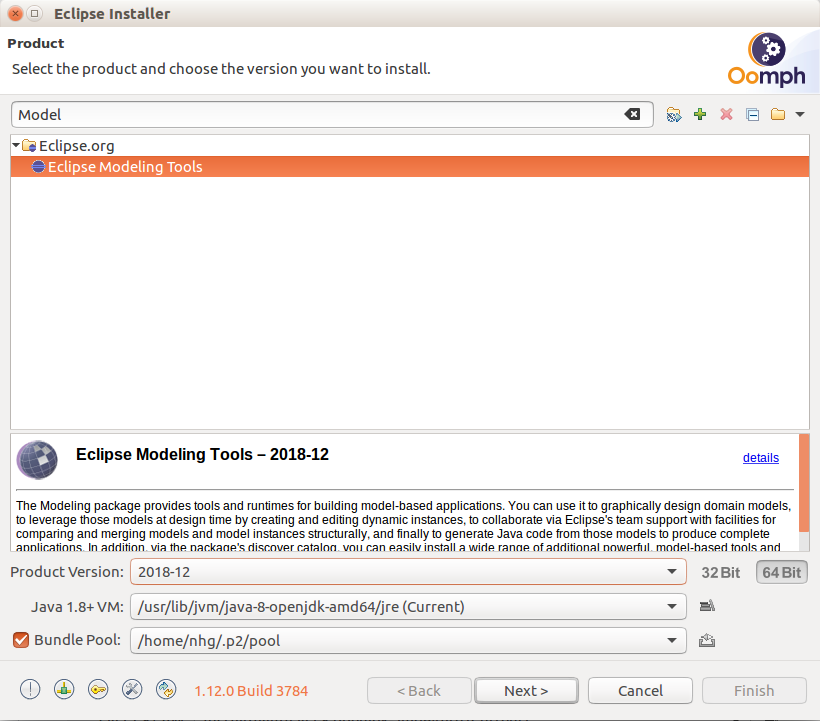
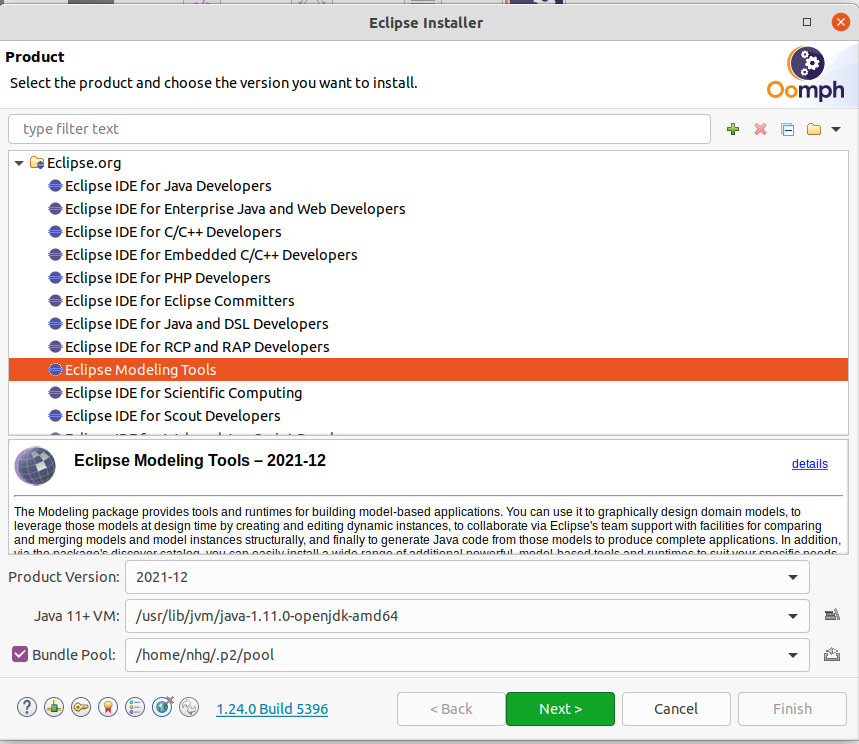
Modify the documentation for the installation of the developer verion to avoid authentification issue while cloning the GitHub repository

Changed region(s): [[0.0, 0.0, 1.0, 1.0], [0.4573, 0.9154, 0.4878, 0.9459]]

diff --git a/docu/Installation.md b/docu/Installation.md
@@ -45,7 +45,9 @@ wget https://raw.githubusercontent.com/ipa320/ros-model/master/EclipseInstaller/
 
 Select the the ROS Model project (under Github Projects -> <User>) and press next. 
 
-By default the ROS tooling installation will be saved under the folder *ros-model-master* in your home directory. In case your github credentials are not setup on your machine, change the *Ros model Github repository* to the *HTTPs(read-write)* option.
+By default the ROS tooling installation will be saved under the folder *ros-model-master* in your home directory. To ensure that you have access to get the source code from GitHub, select the check box *Show all variable* and change the *Ros model Github repository* to the *HTTPs(read-write)* option, verify that the option *Github user ID* is set to "anonymous". 
+
+![alt text](images/eclipse_installer3.png)
 
 Follow the installation instructions of the Oompth installer dialog, after the installation eclipse will be restarted to launch the ROS tooling configuration. Finally, when all the startup tasks finished press "Workbench".
 
